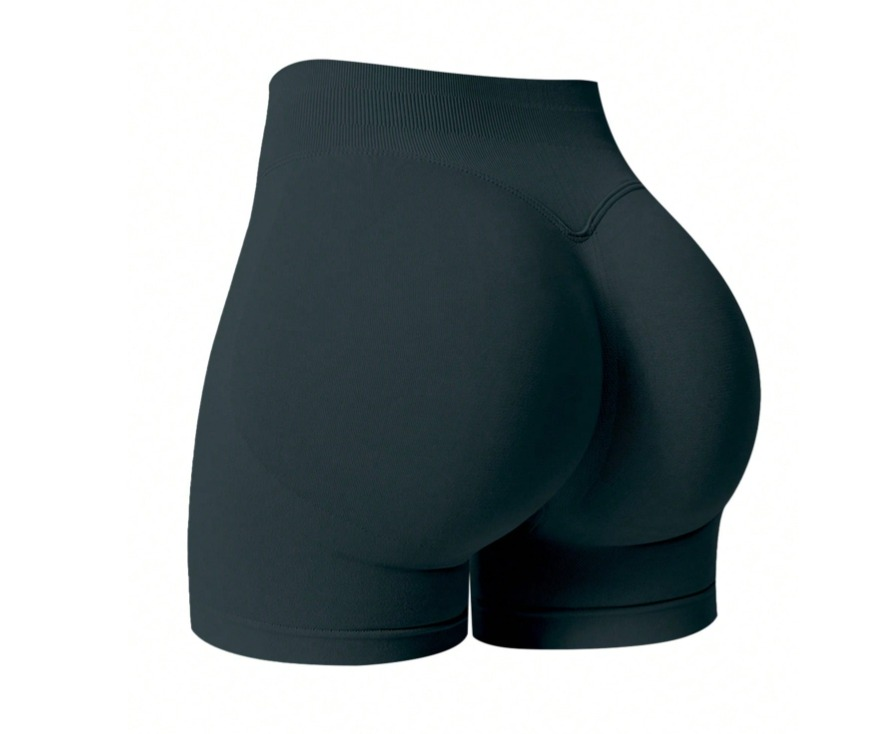
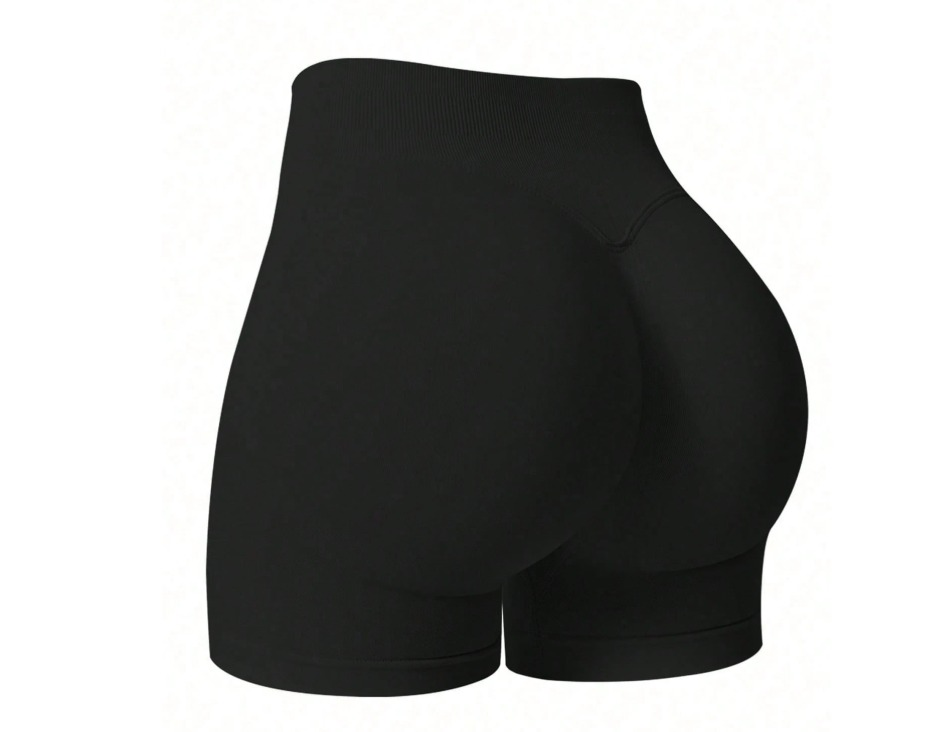
fix corrections

diff --git a/src/app/services/factura.service.ts b/src/app/services/factura.service.ts
@@ -37,7 +37,7 @@ export class FacturaService {
       tallas: [ 'XS','S', 'M', 'L'],
       colores: [
         { nombre: 'Vinotinto', hex: '#880e4f', imagen: 'assets/images/set-musera-sport-negro.jpeg' },
-        { nombre: 'Crema', hex: '#f5e6d3', imagen: 'assets/images/set-musera-sport-crema.jpeg' },
+        { nombre: 'Amarillo', hex: '#ffee54', imagen: 'assets/images/set-musera-sport-crema.jpeg' },
         { nombre: 'Negro', hex: '#333333', imagen: 'assets/images/set-musera-sport-negr.jpeg' },
         { nombre: 'Rosado', hex: '#f48fb1', imagen: 'assets/images/set-musera-sport-rosado.jpeg' },
       ],
@@ -111,11 +111,11 @@ export class FacturaService {
       imagen: 'assets/images/set-musera-sport-p-amarillo.jpeg',
       tallas: ['XS', 'S', 'M', 'L'],
       colores: [
-        { nombre: 'Amarillo', hex: '#fdd835', imagen: 'assets/images/set-musera-sport-p-amarillo.jpeg' },
+        { nombre: 'Amarillo', hex: '#f7f44b', imagen: 'assets/images/set-musera-sport-p-amarillo.jpeg' },
       ],
     },
     {
-      id: 12, nombre: 'Pants Deportivos', precio: 12, categoria: 'Pants', icono: '🩱',
+      id: 12, nombre: 'Leggins', precio: 12, categoria: 'Leggins', icono: '🩱',
       imagen: 'assets/images/leggins-marron.jpeg',
       tallas: ['S'],
       colores: [